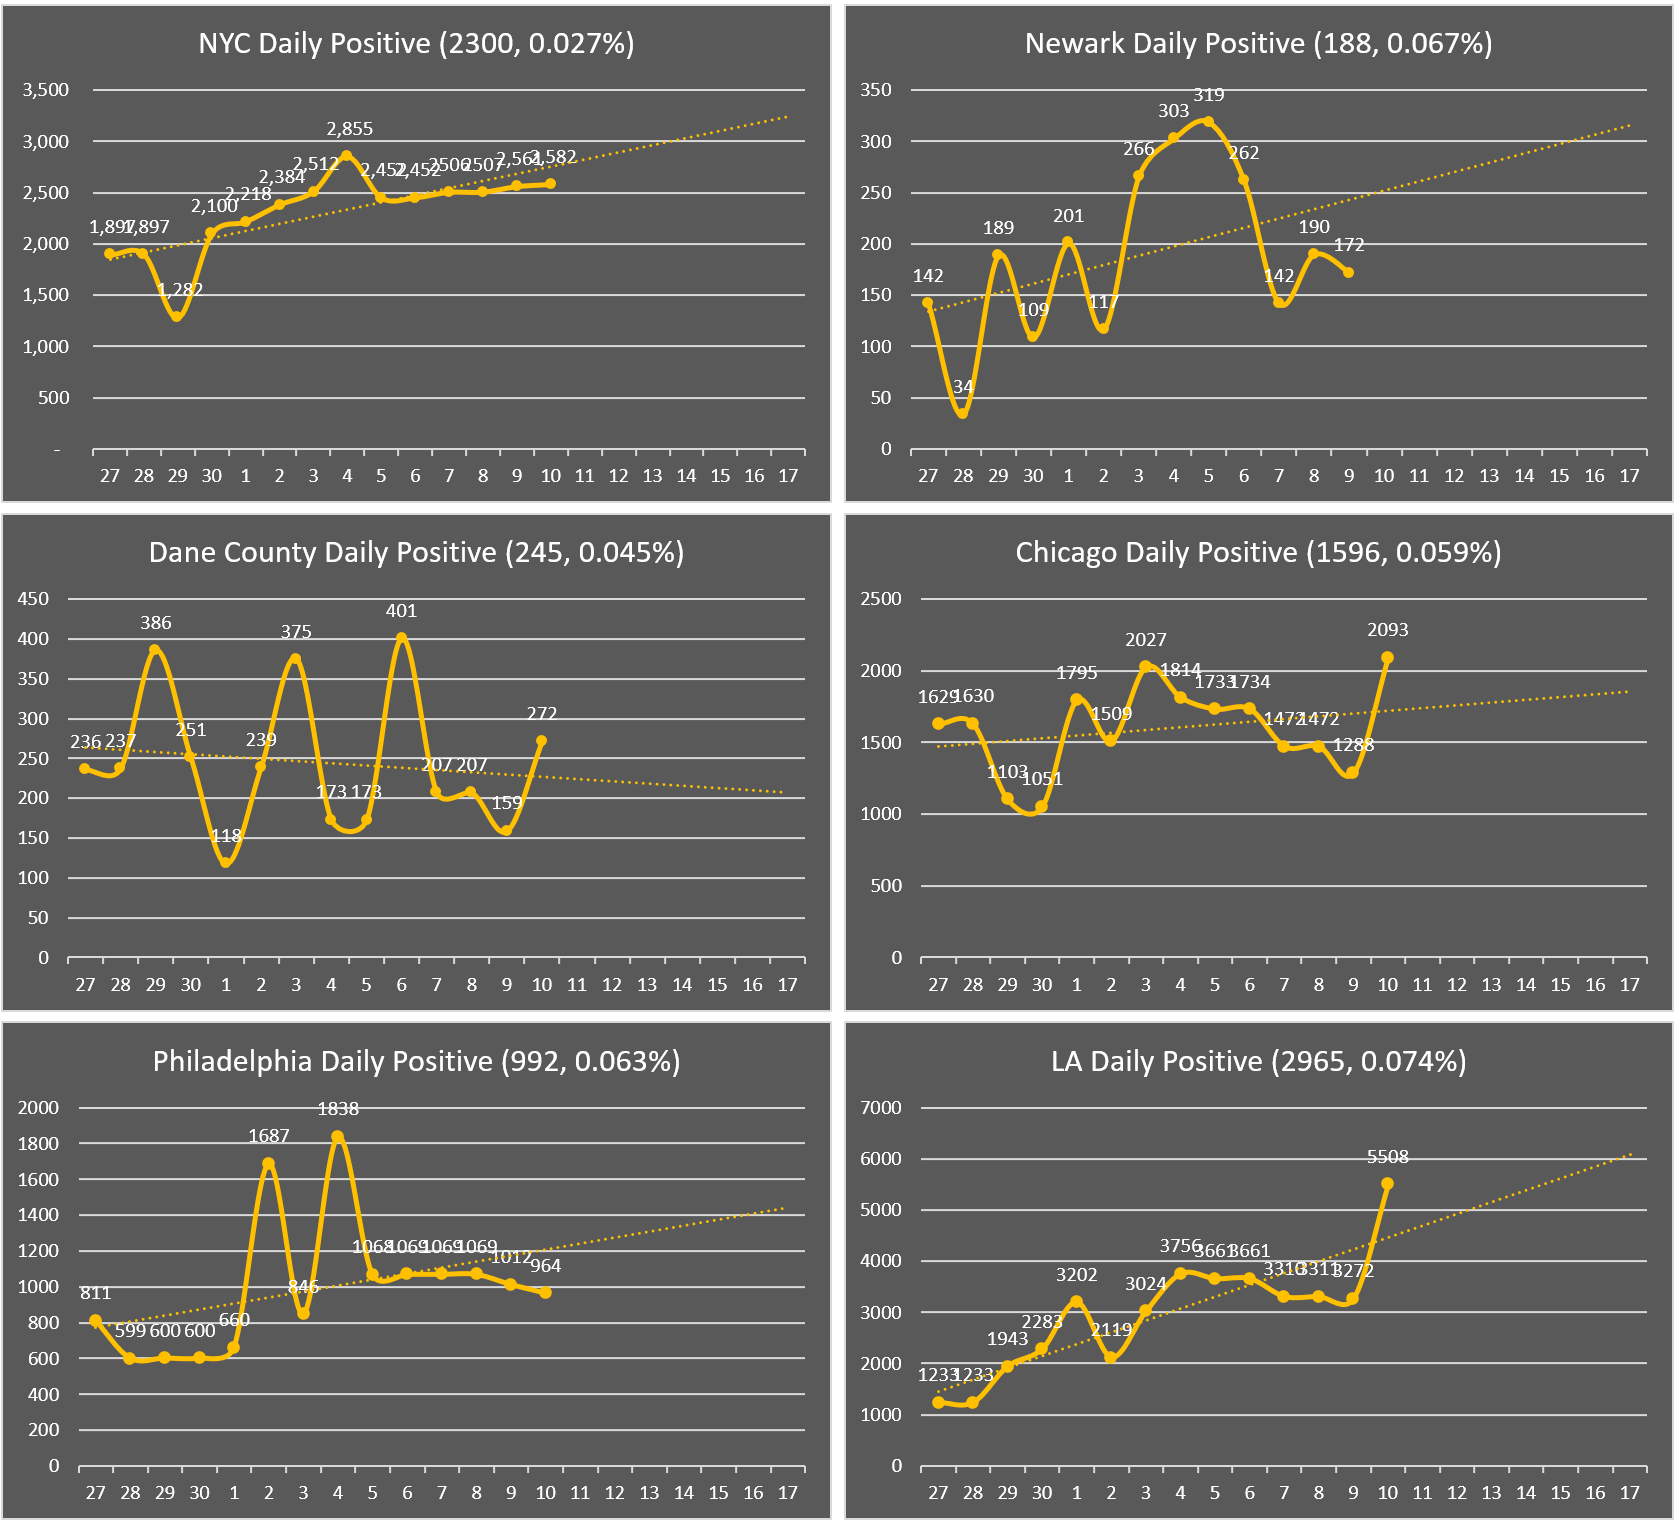
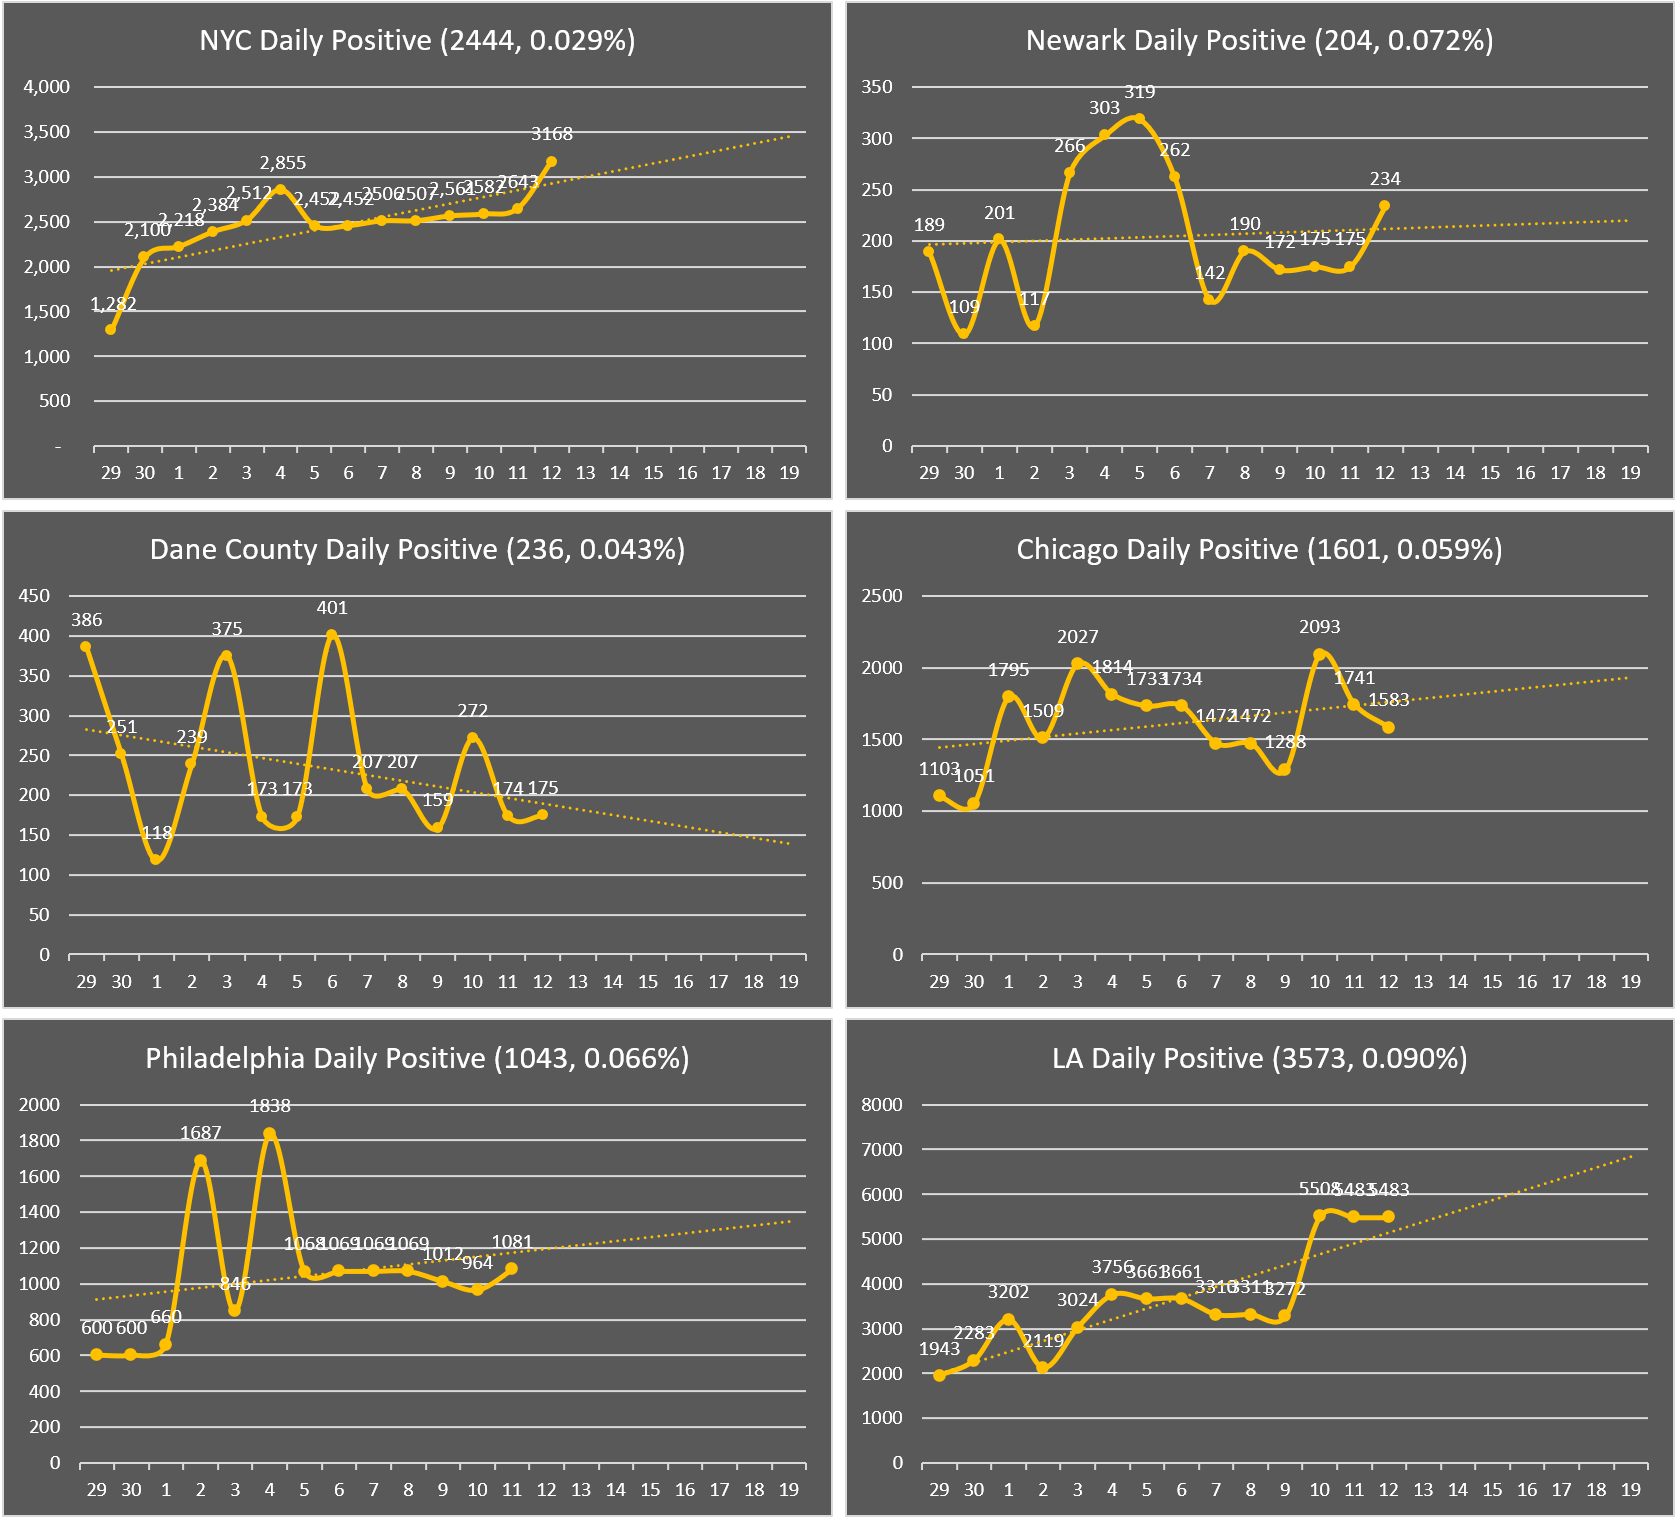
update 12/12 status

diff --git a/index.html b/index.html
@@ -19,7 +19,7 @@
 
 <body class="container-fluid">
 	<h1> CoronaV for Friends</h1>
-	<h2> Data updated at Dec 10 2020 EST 23:10</h2>
+	<h2> Data updated at Dec 13 2020 EST 01:05</h2>
 	<hr>
 	<main>
 		<div class="row">
